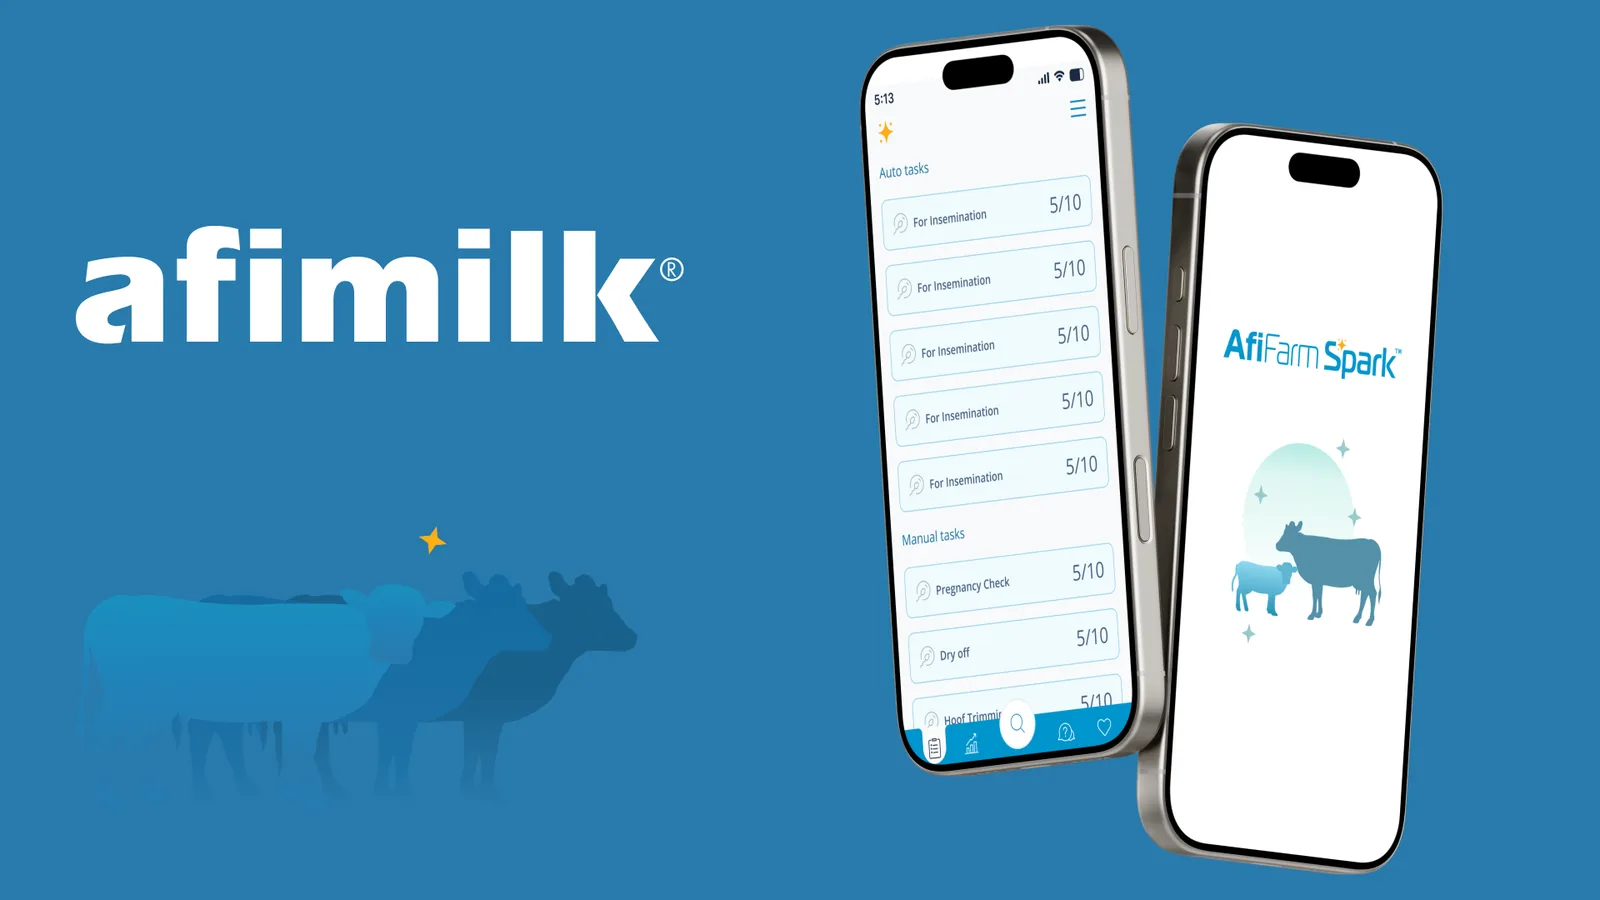
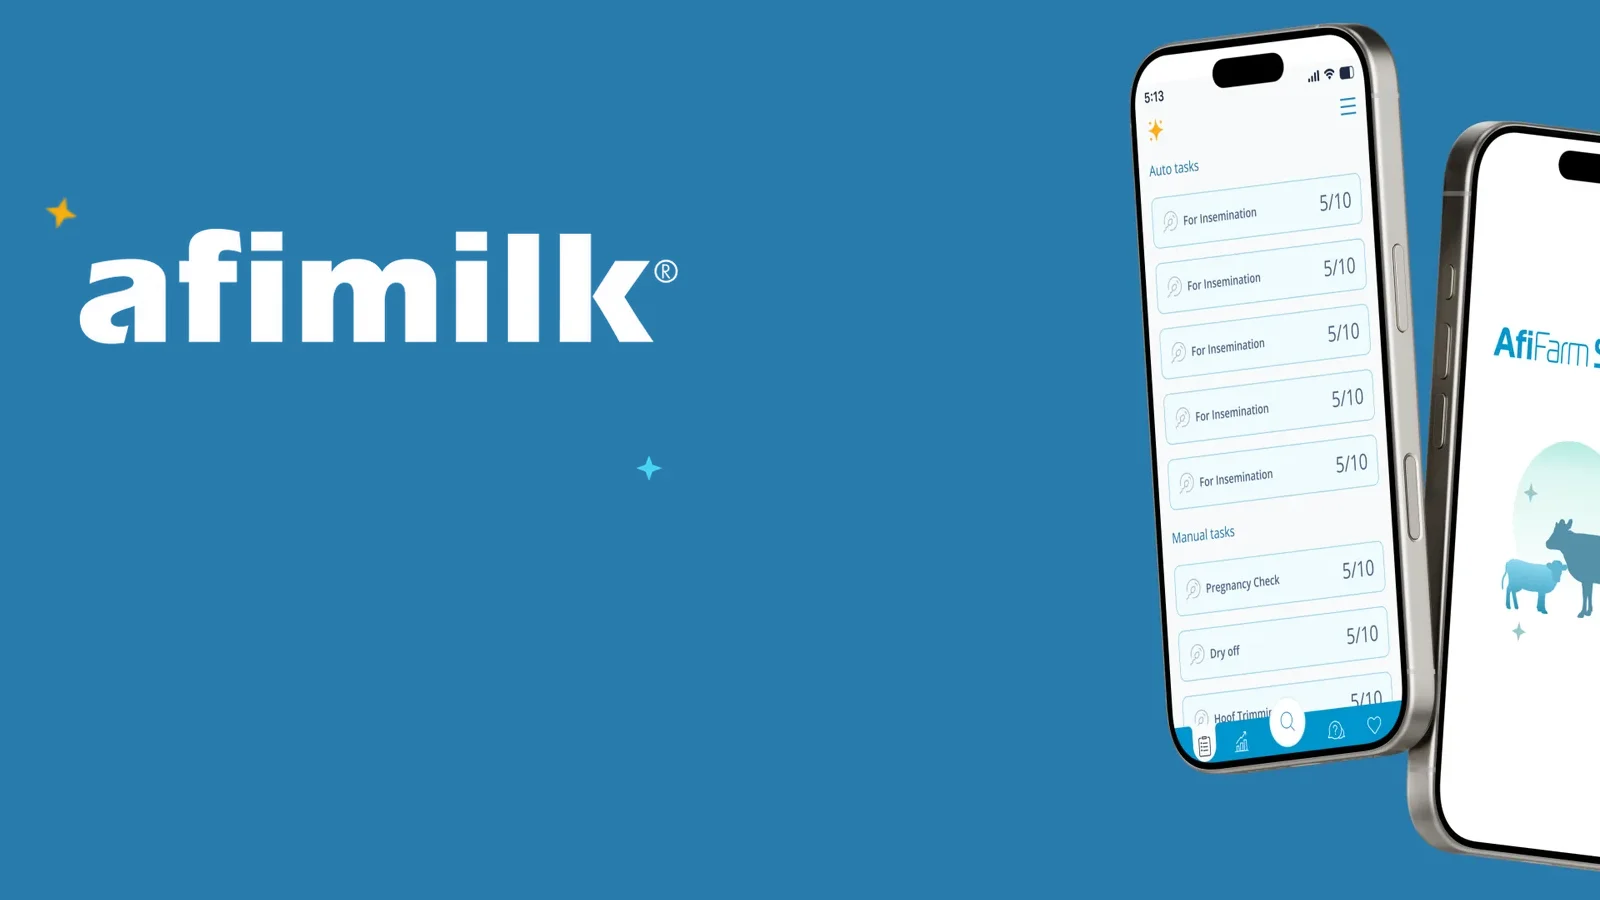
Farmers cover: same system as the Herd card, illustration out
Claude-Session: https://claude.ai/code/session_01U3LnkADmWK6BWBvsiVpdjW

diff --git a/scripts/afimilk-covers.py b/scripts/afimilk-covers.py
@@ -1,0 +1,90 @@
+"""Rebuild the two Afimilk homepage covers (Farmers app, Herd platform) as a matched pair.
+
+Both sit on Afimilk's flat brand blue with the logo in the same spot and size, their own
+two brand stars, and the product on the right running off the edge: phone renders for the
+field app, a browser window for the herd platform. Everything is lifted from Afimilk's own
+artwork, so no logo or star is redrawn. Run from the repo root:
+
+    python3 scripts/afimilk-covers.py
+"""
+from PIL import Image, ImageDraw, ImageFilter
+from pathlib import Path
+import numpy as np
+
+ROOT = Path(__file__).resolve().parent.parent
+IMG = ROOT / 'public' / 'images'
+W, H = 1600, 900
+BG = (40, 123, 172)          # Afimilk brand blue, sampled from their own artwork
+GOLD = (252, 176, 13)
+CYAN = (75, 214, 244)
+
+brand = Image.open(IMG / 'farmers-1600.webp').convert('RGB')   # Afimilk's marketing render
+herd_art = Image.open(ROOT / 'scripts' / 'assets' / 'afimilk-herd-art.webp').convert('RGB')
+
+
+def lift(img, box, colour):
+    """Pull one piece of flat artwork off the brand blue as a transparent layer."""
+    s = np.array(img.crop(box)).astype(float)
+    c, b = np.array(colour, float), np.array(BG, float)
+    a = np.clip(((s - b) * (c - b)).sum(2) / ((c - b) ** 2).sum(), 0, 1)
+    out = Image.new('RGBA', (s.shape[1], s.shape[0]), tuple(colour) + (0,))
+    out.putalpha(Image.fromarray((a * 255).astype('uint8')))
+    return out
+
+
+def centre(cv, layer, cx, cy, scale=1.0):
+    if scale != 1.0:
+        layer = layer.resize((int(layer.width * scale), int(layer.height * scale)), Image.LANCZOS)
+    cv.paste(layer, (int(cx - layer.width / 2), int(cy - layer.height / 2)), layer)
+
+
+def logo_layer():
+    crop = brand.crop((60, 210, 700, 360))
+    a = np.array(crop).astype(float)
+    alpha = np.clip((a - np.array(BG, float)).sum(2) / ((255 - np.array(BG)).sum()), 0, 1)
+    out = Image.new('RGBA', crop.size, (255, 255, 255, 0))
+    out.putalpha(Image.fromarray((alpha * 255).astype('uint8')))
+    return out.crop(out.getbbox())
+
+
+def base():
+    """Flat field, logo and the two brand stars, identical on both covers."""
+    cv = Image.new('RGB', (W, H), BG)
+    logo = logo_layer()
+    lw = 606
+    cv.paste(logo.resize((lw, int(logo.height * lw / logo.width)), Image.LANCZOS), (76, 226), logo.resize((lw, int(logo.height * lw / logo.width)), Image.LANCZOS))
+    centre(cv, lift(brand, (414, 522, 452, 560), GOLD), 62, 214, 1.15)
+    centre(cv, lift(herd_art, (525, 510, 575, 555), CYAN), 650, 470, 0.9)
+    return cv
+
+
+# ---- Farmers: the phone renders, copied straight off the same flat blue ----
+cv = base()
+phones = brand.crop((840, 10, 1460, 890))
+cv.paste(phones, (W - phones.width + 130, 8))
+cv.save(IMG / 'farmers-1600.webp', quality=86)
+cv.resize((800, 450), Image.LANCZOS).save(IMG / 'farmers-800.webp', quality=86)
+print('wrote farmers')
+
+# ---- Herd: the Daily Tasks screen in a browser window ----
+cv = base()
+shot = Image.open(ROOT / 'scripts' / 'assets' / 'herd-daily-tasks.png').convert('RGB')
+ww, bar = 1100, 36
+shot = shot.resize((ww, int(shot.height * ww / shot.width)), Image.LANCZOS)
+win = Image.new('RGB', (ww, shot.height + bar), (255, 255, 255))
+win.paste(shot, (0, bar))
+d = ImageDraw.Draw(win)
+d.rectangle((0, 0, ww, bar), fill=(241, 244, 247))
+for i, c in enumerate([(255, 95, 87), (254, 188, 46), (40, 200, 64)]):
+    d.ellipse((18 + i * 22, 13, 29 + i * 22, 24), fill=c)
+mask = Image.new('L', win.size, 0)
+ImageDraw.Draw(mask).rounded_rectangle((0, 0, win.width, win.height + 60), 20, fill=255)
+x, y = 760, 230
+sh = Image.new('L', (W, H), 0)
+ImageDraw.Draw(sh).rounded_rectangle((x + 6, y + 26, x + ww + 40, y + win.height + 40), 24, fill=130)
+sh = sh.filter(ImageFilter.GaussianBlur(36))
+cv = Image.composite(Image.new('RGB', (W, H), (14, 52, 84)), cv, sh)
+cv.paste(win, (x, y), mask)
+cv.save(IMG / 'herd-1600.webp', quality=86)
+cv.resize((800, 450), Image.LANCZOS).save(IMG / 'herd-800.webp', quality=86)
+print('wrote herd')

diff --git a/CHANGELOG.md b/CHANGELOG.md
@@ -1,5 +1,17 @@
 # Changelog
 
+## 2026-10-18 · One cover system for all five cards
+
+- Every client cover now follows the same pattern: a flat field in the client's own colour,
+  their official logo on the left, and the real product screen on the right running off the
+  edge. The two Afimilk cards share logo position, size and star placement exactly.
+- Sentrycs and Cybersixgill: the clients' marketing photos (drone hardware, laptop mockup)
+  replaced with Meitar's own screens. Logos are the brands' own PNGs (scripts/assets/).
+- Farmers: Afimilk's phone renders kept, decorative cow illustration dropped.
+- Herd: built from the Daily Tasks frame in Figma.
+- Covers are generated by scripts/afimilk-covers.py and scripts/client-covers.py, so they
+  can be rebuilt when a screen changes.
+
 ## 2026-10-18 · Consistency pass
 
 - Before/after slider: drag from the handle only; Before/After tags glide to that side.
